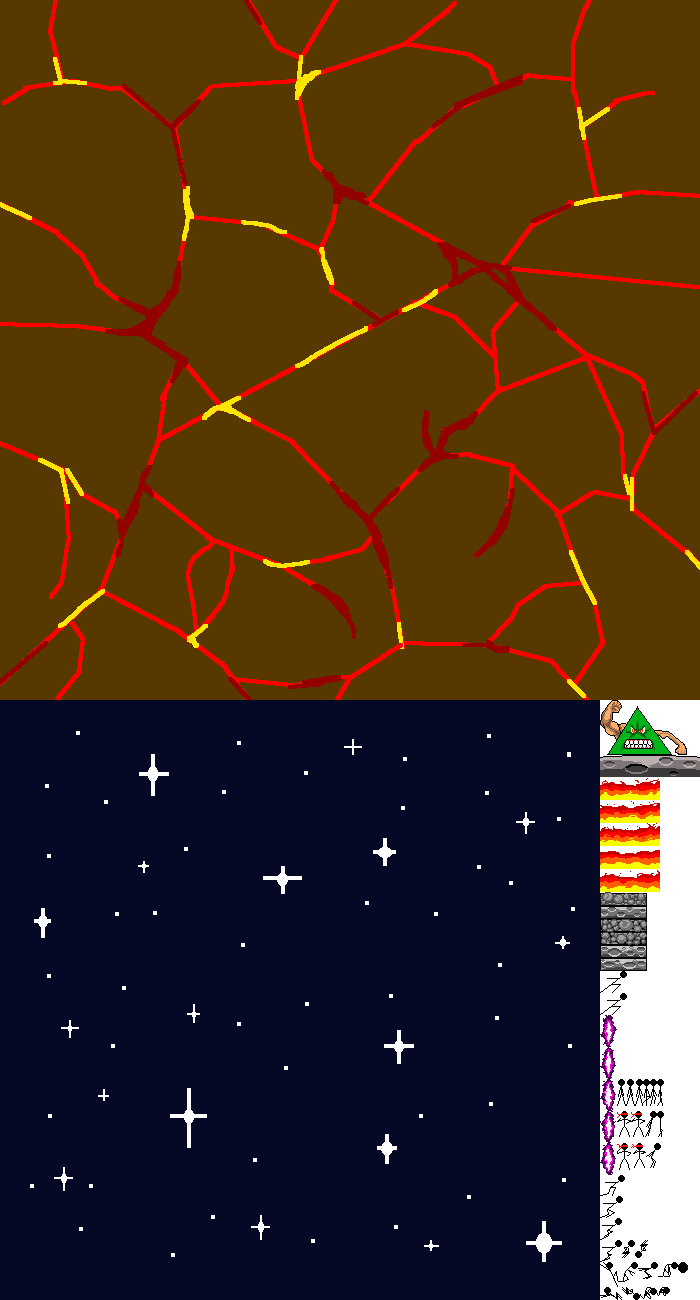
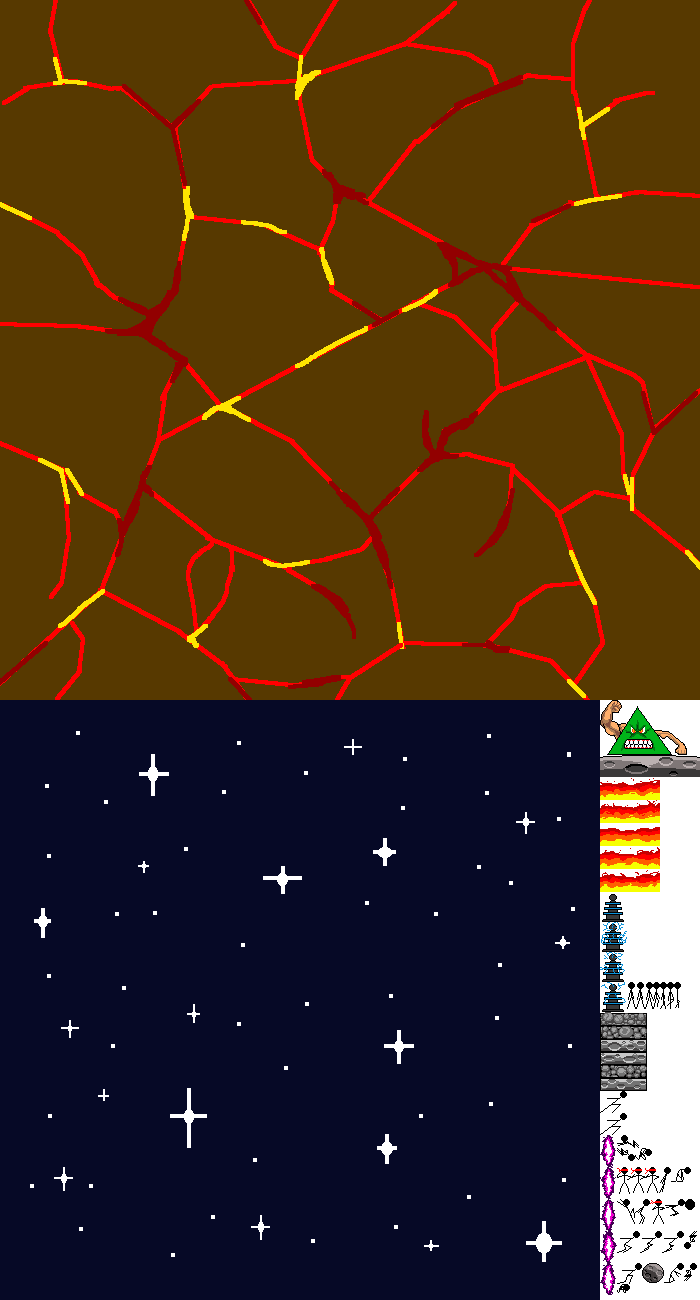
Got portals working. Added a tutorial area.

Changed region(s): [[0.84, 0.6154, 0.99, 1.0]]

diff --git a/js/game/states/skelcomp.js b/js/game/states/skelcomp.js
@@ -4,7 +4,8 @@ define(['game/game', 'util/functional'], function (game, F) {
     let statedef = {
         eachSkel: function (k, args) {
             let retval = [];
-            for (let skel of this.skels) if (skel[k]) { // For each skeleton that supports the method:
+            for (let skel of this.skels) if (skel[k] && !skel.SKC_DONE_FUNCS[k]) {
+                // For each skeleton that supports the method:
                 let r = skel[k].apply(this, args); // Call it
                 if (r != undefined) retval[retval.length] = r; // Add it to return value if it returned anything
             }
@@ -43,6 +44,7 @@ define(['game/game', 'util/functional'], function (game, F) {
                 }
 
                 // once we've figured out what the skeleton is,
+                skel.SKC_DONE_FUNCS = {};
                 this.skels[this.skels.length] = skel; // add it to what skeletons we have
                 skelinitps[skelinitps.length] = thisskelinitps; // and add the init parameters
             }
@@ -55,8 +57,12 @@ define(['game/game', 'util/functional'], function (game, F) {
                 if (this.skels[i].init)
                     this.skels[i].init.apply(this, skelinitps[i]);
         },
-        preload: function () {this.eachSkel('preload');},
-        create: function () {this.eachSkel('create');},
+        preload: function () {
+            this.eachSkel('preload');
+        },
+        create: function () {
+            this.eachSkel('create');
+        },
         update: function () {this.eachSkel('update');},
         render: function () {this.eachSkel('render');},
         // addSkel()
@@ -68,12 +74,22 @@ define(['game/game', 'util/functional'], function (game, F) {
         // The first argument should be the skeleton itself.
         // Any additional arguments are treated as init parameters for the skeleton.
         addSkel: function (skel) {
+            skel.SKC_DONE_FUNCS = {};
             let skelinitps = F.arrayOf.apply(F, arguments).slice(1);
             this.skels[this.skels.length] = skel;
             this.updateMethods();
-            if (skel.init) skel.init.apply(this, skelinitps);
-            if (skel.preload) skel.preload.call(this);
-            if (skel.create) skel.create.call(this);
+            if (skel.init) {
+                skel.init.apply(this, skelinitps);
+                skel.SKC_DONE_FUNCS.init = true;
+            }
+            if (skel.preload) {
+                skel.preload.call(this);
+                skel.SKC_DONE_FUNCS.preload = true;
+            }
+            if (skel.create) {
+                skel.create.call(this);
+                skel.SKC_DONE_FUNCS.create = true;
+            }
         }
     };
     // add the SSC to the game

diff --git a/js/game/states/skeletons/tutorial.js b/js/game/states/skeletons/tutorial.js
@@ -1,0 +1,31 @@
+/*  game/states/skeletons/tutorial
+    Tutorial level with goofy geometry */
+define(['game/states/skeletons/portal'], function (portal) {return {
+    preload: function () {
+        this.load.tilemap('testmap', 'assets/maps/testmap.json', null,
+            Phaser.Tilemap.TILED_JSON);
+        this.load.image('arrowkeys', 'assets/graphics/arrowkeys.png');
+        this.load.image('tileset', 'assets/graphics/tileset.png');
+    },
+    create: function () {
+        this.game.physics.startSystem(Phaser.Physics.ARCADE);
+        this.tilemap = this.add.tilemap('testmap');
+        this.tilemap.addTilesetImage('tileset', 'tileset');
+        this.tilemap.setCollisionBetween(1, 100);
+        this.solidLayer = this.tilemap.createLayer('solid');
+        //this.groups.solids = this.add.group();
+        //this.groups.solids.add(this.solidLayer);
+        this.physics.enable(this.solidLayer);
+        this.arrowkeysImage = this.add.image(100, 200, 'arrowkeys');
+        this.arrowkeysImage.scale.setTo(0.75);
+        this.addSkel(portal);
+        this.portal.x = 370;
+        this.portal.y = 250;
+    },
+    update: function () {
+        let STATE = this;
+        this.game.physics.arcade.collide(this.player, this.solidLayer, function () {
+            STATE.playerDoLandFromFall();
+        });
+    }
+};});

diff --git a/js/game/states/skeletons/portal.js b/js/game/states/skeletons/portal.js
@@ -1,28 +1,30 @@
 /*  game/states/skeletons/portal
 	Portal prefab to send player to next room
 */
-let DEBUG = false;
-define(['game/game', 'game/LevelOrder'],
-function (game) {return {
+let PORTALDEBUG = false;
+define([],
+function () {return {
     create: function () {
-		this.portal = this.add.sprite(100, 0, 'atlas');
+		this.portal = this.add.sprite(100, 0, 'atlas', 'portal-1');
 		this.portal.scale.setTo(2, 2);
 		this.portal.anchor.setTo(0.5, 0.5);
-		
-		this.portal.animations.add('idle', ['portal-1','portal-2','portal-3','portal-4','portal-5','portal-6']);
+
+		this.portal.animations.add('idle', ['portal-1','portal-2','portal-3','portal-4','portal-5'], 10, true);
 		this.portal.animations.play('idle');
-		
+
 		this.physics.arcade.enable(this.portal);
     },
     update: function () {
+        let STATE = this;
         if(this.player){
-			this.player.physics.arcade.collide(this.player, this.portal,
+			this.game.physics.arcade.collide(this.player, this.portal,
 				function () {
-					game.LevelOrder.nextLevel();
+					STATE.game.levelOrder.nextLevel();
 				});
+        }
     },
 	render: function() {
-		game.debug.body(this.player);
+		if (PORTALDEBUG) this.game.debug.body(this.player);
 	}
 };});
 

diff --git a/js/main.js b/js/main.js
@@ -5,16 +5,17 @@ requirejs.config({baseUrl: './js'}); // Assume all module paths are relative to 
 requirejs(['game/states/functionCaller',
             'game/states/setup',
             'game/states/fixed/titleScreen',
+            'game/states/skeletons/tutorial',
             'game/states/skeletons/playertest',
             'game/states/skeletons/space_level',
             'game/states/skeletons/side_to_side',
             'game/LevelOrder'],
-function (functionCaller, setup, titleScreen, playertest, spaceLevel, sideToSide, LevelOrder) {
+function (functionCaller, setup, titleScreen, tutorial, playertest, spaceLevel, sideToSide, LevelOrder) {
     /*  Runs the preloader and then transitions to the state skeleton compositor.
         The SSC will then make a state out of:
         * the groups skeleton (which makes sure the state has a 'groups' property)
         * the player skeleton (which adds the player character)
         * the playertest skeleton (which adds the silly little test room) */
-    LevelOrder.order = [playertest, spaceLevel, sideToSide];
+    LevelOrder.order = [tutorial, playertest, spaceLevel, sideToSide];
     setup('functionCaller', titleScreen);
 });

diff --git a/js/game/states/skeletons/player.js b/js/game/states/skeletons/player.js
@@ -53,10 +53,10 @@ function (game, keyDown, fadeOut, F, VM) {return {
         }
     },
     playerCheckGoal: function () {
-        if (this.player.y < 50 && this.player.animations.name == 'jump') {
+//        if (this.player.y < 50 && this.player.animations.name == 'jump') {
             // This is a temporary win condition for levels and will be changed later.
-            game.levelOrder.nextLevel();
-        }
+    //        game.levelOrder.nextLevel();
+  //      }
     },
     playerCollideSolids: function () {
         // If any sprites / etc declare themselves solid by being in the 'solids' group:
